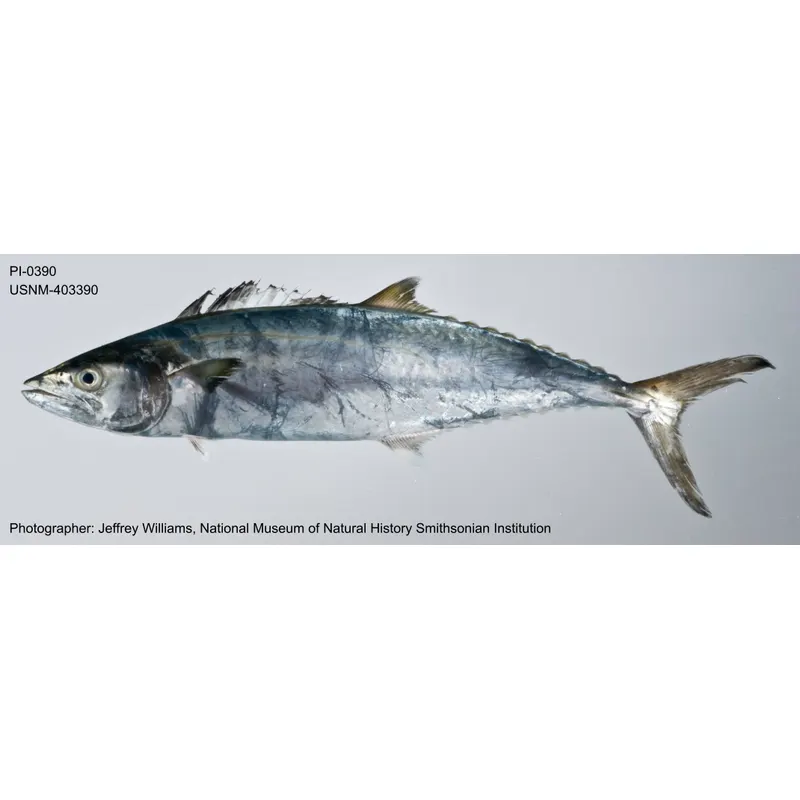
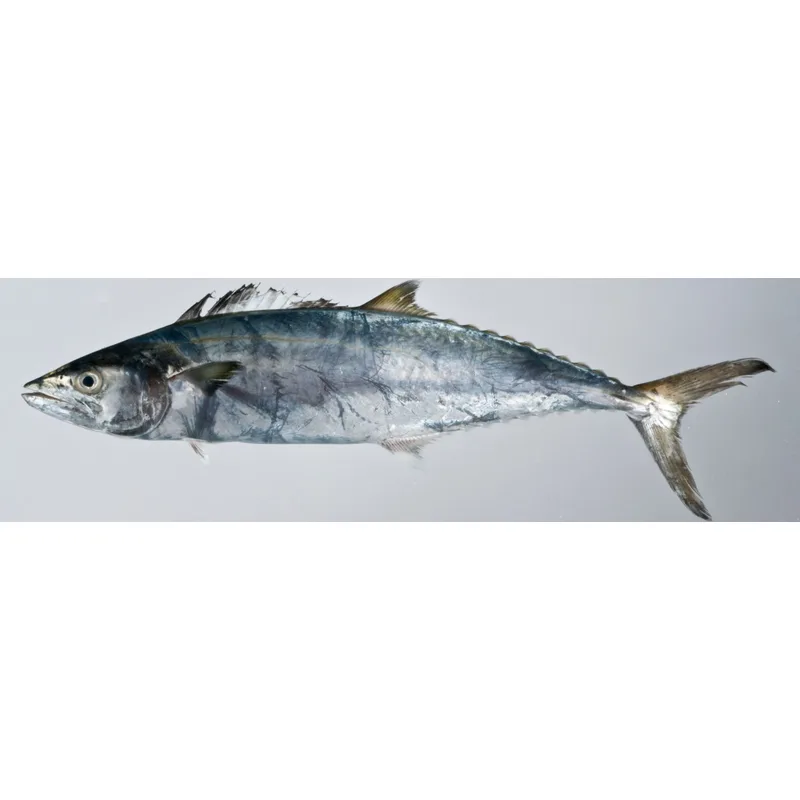
Keep product card price and button readable at every width
Card footer stacks by card width (container query) so price and button never clip;
button reads Add to cart. Drop the 'Selected for your kitchen' filler line.
Remove the embedded label and caption from the public-domain King Fish photo.

Changed region(s): [[0.0, 0.3125, 1.0, 0.6875]]

diff --git a/src/components/product/product-card.tsx b/src/components/product/product-card.tsx
@@ -3,5 +3,5 @@ import Image from "next/image";
 import type { Product } from "@/types/catalog";
 import {priceLabel, quantityLabel, quantityOptions, quantityText} from "@/lib/pricing";
 export function ProductCard({ product }: { product: Product }) {
-  return <article className="product-card"><div className="product-image"><Image src={product.image} alt={product.imageAlt} width={480} height={360} sizes="(max-width: 767px) 46vw, (max-width: 1199px) 44vw, 23vw" /><span className={product.available ? "availability" : "availability unavailable"}>{product.orderable===false ? "Catalogue" : product.available ? "Available" : "Sold out"}</span></div><div className="product-body"><p className="product-cut">{product.cut}</p><h3>{product.name}</h3><p className="local-name">{product.localName || "Selected for your kitchen"}</p><p className="card-weight-note">{quantityLabel(product)}: {quantityOptions(product).map(q=>quantityText(product,q)).join(" / ")}</p><div className="product-bottom"><p><strong>{priceLabel(product)}</strong></p><AddProductButton product={product} /></div></div></article>;
+  return <article className="product-card"><div className="product-image"><Image src={product.image} alt={product.imageAlt} width={480} height={360} sizes="(max-width: 767px) 46vw, (max-width: 1199px) 44vw, 23vw" /><span className={product.available ? "availability" : "availability unavailable"}>{product.orderable===false ? "Catalogue" : product.available ? "Available" : "Sold out"}</span></div><div className="product-body"><p className="product-cut">{product.cut}</p><h3>{product.name}</h3>{product.localName && <p className="local-name">{product.localName}</p>}<p className="card-weight-note">{quantityLabel(product)}: {quantityOptions(product).map(q=>quantityText(product,q)).join(" / ")}</p><div className="product-bottom"><p><strong>{priceLabel(product)}</strong></p><AddProductButton product={product} /></div></div></article>;
 }

diff --git a/src/components/product/add-product-button.tsx b/src/components/product/add-product-button.tsx
@@ -6,7 +6,7 @@ import { ProductSelection } from "@/components/product/product-selection";
 export function AddProductButton({ product }: { product: Product }) {
   const [open, setOpen] = useState(false);
   const [added, setAdded] = useState(false);
-  return <div className="product-add"><button className="add-button" type="button" disabled={!product.available || product.orderable===false} onClick={() => { setAdded(false); setOpen(true); }} aria-label={product.available ? "Choose " + product.name : product.name + " is sold out"}>{product.orderable===false?"Ordering unavailable":"+ Add"}</button>
+  return <div className="product-add"><button className="add-button" type="button" disabled={!product.available || product.orderable===false} onClick={() => { setAdded(false); setOpen(true); }} aria-label={product.available ? "Choose " + product.name : product.name + " is sold out"}>{product.orderable===false?"Ordering unavailable":"Add to cart"}</button>
     {added && <span className="added-feedback" role="status">Added. <Link href="/cart">View cart</Link></span>}
     {open && <ProductSelection product={product} onClose={() => setOpen(false)} onSaved={() => setAdded(true)} />}
   </div>;

diff --git a/src/app/globals.css b/src/app/globals.css
@@ -806,3 +806,16 @@ h3 { letter-spacing:.01em; }
 .offer-list li { min-width:0; overflow-wrap:anywhere; }
 .offer-list strong { color:var(--brand-red-dark); }
 .offer-list p { margin:5px 0; font-size:14px; }
+
+/* Product card footer: sized by the card, not the viewport, so price and button never clip. */
+.product-body { container-type:inline-size; }
+.product-bottom { flex-wrap:wrap; }
+.product-bottom p { min-width:0; max-width:100%; }
+.product-add { max-width:100%; }
+.add-button { max-width:100%; overflow-wrap:anywhere; }
+@container (max-width:300px) {
+  .product-bottom { flex-direction:column; align-items:stretch; gap:10px; }
+  .product-bottom p { white-space:normal; }
+  .product-add { align-items:stretch; }
+  .add-button { width:100%; min-width:0; padding-inline:10px; }
+}
